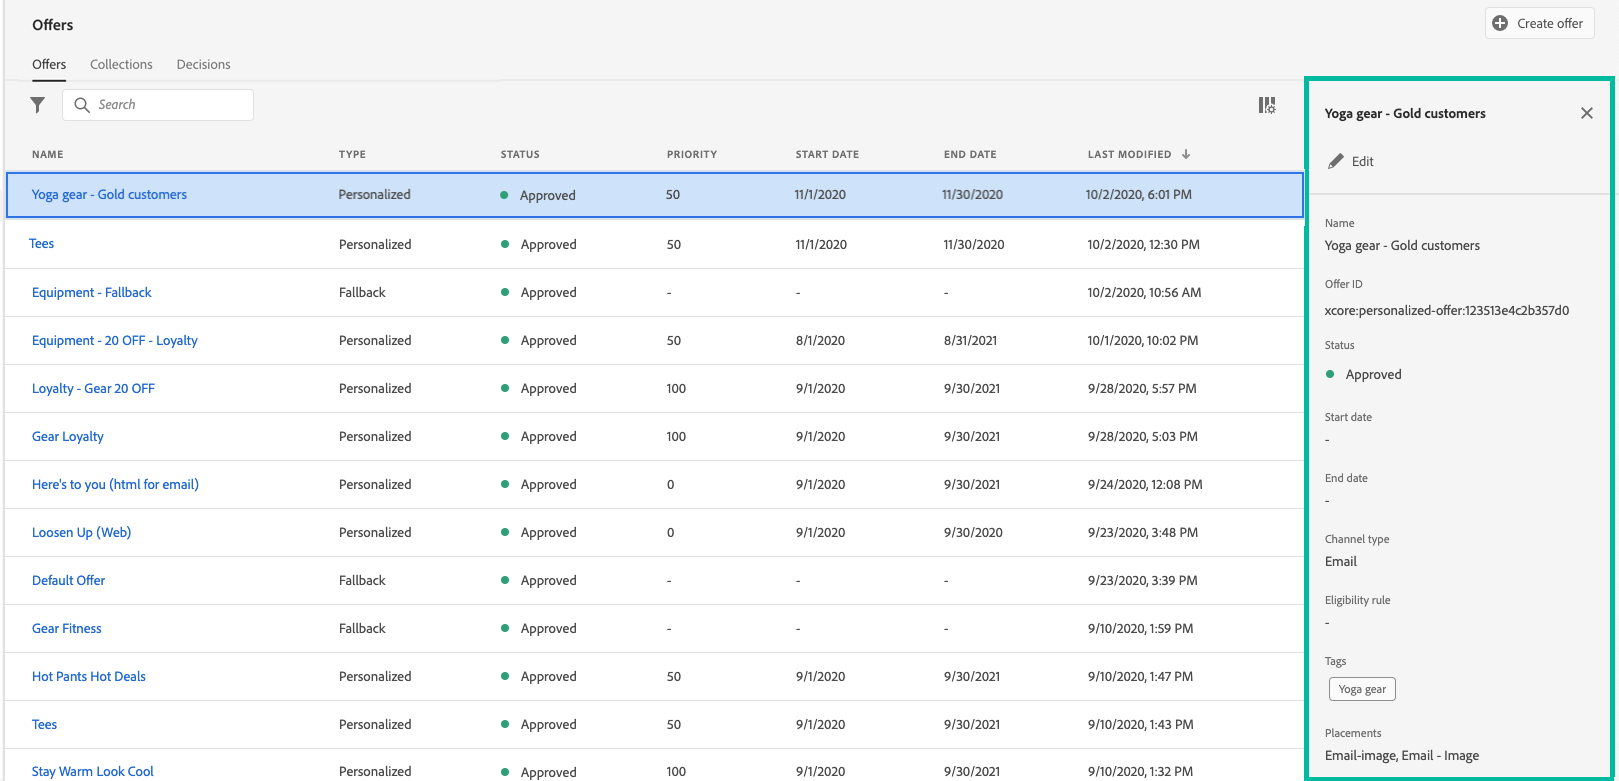
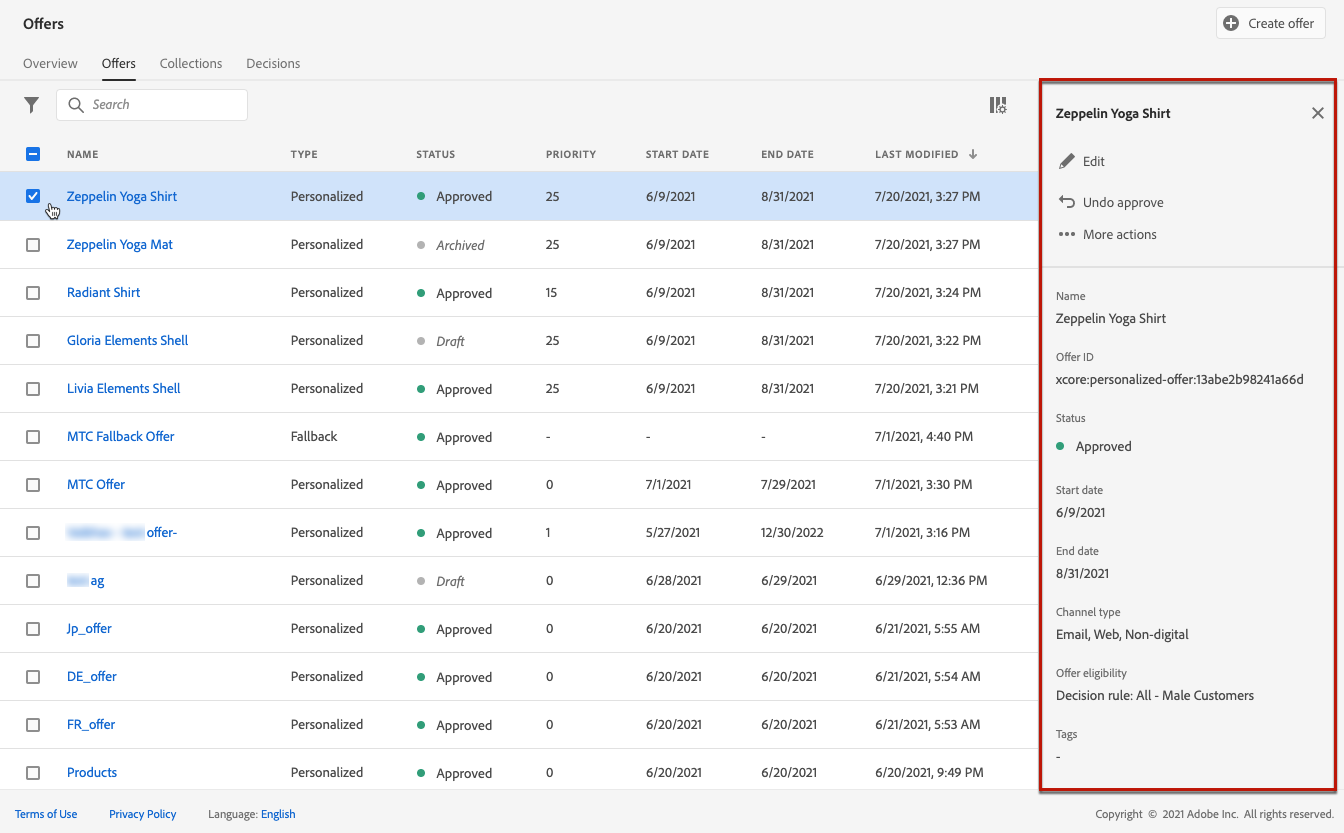
offer and decision lists updates + screens

diff --git a/help/using/offers/offer-activities/create-offer-activities.md b/help/using/offers/offer-activities/create-offer-activities.md
@@ -77,26 +77,67 @@ Select the fallback offer that will be presented as a last resort to the custome
 
 ## Review and save the decision {#review}
 
-If everything is configured properly and your decision is ready to be used to  present offers to customers, click **[!UICONTROL Finish]**, then select **[!UICONTROL Save and activate]**.
+If everything is configured properly, a summary of the decision properties displays. 
 
-You can also save the decision as draft, in order to edit and activate it later on.
+1. Make sure decision is ready to be used to  present offers to customers.
+1. Click **[!UICONTROL Finish]**.
+1. Then select **[!UICONTROL Save and activate]**.
 
-![](../../assets/save-activities.png)
+    ![](../../assets/save-activities.png)
+    
+    You can also save the decision as draft, in order to edit and activate it later on.
 
 The decision displays in the list with the **[!UICONTROL Live]** or **[!UICONTROL Draft]** status, depending on whether you activated it or not in the previous step. 
 
-It is now ready to be used to deliver offers to customers. You can select it to display its properties and edit or suppress it.
+It is now ready to be used to deliver offers to customers.
 
-For more on to deliver offers, refer to these sections:
+## Decision list {#decision-list}
 
-* [Add personalized offers in messages](../../deliver-personalized-offers.md)
-* [Deliver offers using APIs](../api-reference/decisions-api/deliver-offers.md)
+From the decision list, you can select the decision to display its properties. From there you can also edit it, change its status (**Draft**, **Live**, **Complete**, **Archived**), duplicate the decision, or delete it.
 
-![](../../assets/activities-created.png)
+![](../../assets/decision_created.png)
 
->[!NOTE]
->
->Once a decision has been created, you can click its name in the list to access detailed information, and visualize all the changes that have been made to it using the **[!UICONTROL Change log]** tab. [Learn more](../get-started/user-interface.md#changes-log). 
+Select the **[!UICONTROL Edit]** button to go back to the decision edition mode, where you can modify the decision's [details](#create-activity), [decision scopes](#add-decision-scopes) and [fallback offer](#add-fallback).
+
+Select a live decision and click **[!UICONTROL Deactivate]** to set the decision status back to **[!UICONTROL Draft]**.
+
+To set again the status to **[!UICONTROL Live]**, select the **[!UICONTROL Activate]** button that is now displayed.
+
+![](../../assets/decision_activate.png)
+
+The **[!UICONTROL More actions]** button enables the actions described below.
+
+![](../../assets/decision_more-actions.png)
+
+* **[!UICONTROL Complete]**: sets the decision's status to **[!UICONTROL Complete]**, meaning the decision cannot be called anymore. This action is only available for activated decisions. The decision is still available from the list, but you cannot set its status back to **[!UICONTROL Draft]** or **[!UICONTROL Approved]**. You can only duplicate, delete or archive it.
+
+* **[!UICONTROL Duplicate]**: creates a decision with the same properties, decision scopes and fallback offer. By default, the new decision has the **[!UICONTROL Draft]** status.
+
+* **[!UICONTROL Delete]**: removes the decision from the list.
+
+    >[!CAUTION]
+    >
+    >The decision and its content will not be accessible anymore. This action cannot be undone.
+    >
+    >If the decision is used in another object, it cannot be deleted.
+
+* **[!UICONTROL Archive]**: sets the decision status to **[!UICONTROL Archived]**. The decision is still available from the list, but you cannot set its status back to **[!UICONTROL Draft]** or **[!UICONTROL Approved]**. You can only duplicate or delete it.
+
+You can also delete or change the status of multiple decisions at the same time by selecting the corresponding checkboxes.
+
+![](../../assets/decision_multiple-selection.png)
+
+If you want to change the status of several decisions whith different statuses, only the relevant statuses will be changed.
+
+![](../../assets/decision_change-status.png)
+
+Once a decision has been created, you can click its name from the list.
+
+![](../../assets/decision_click-name.png)
+
+This enables you to access detailed information for that decision. Select the **[!UICONTROL Change log]** tab to [monitor all the changes](../get-started/user-interface.md#changes-log) that have been made to the decision.
+
+![](../../assets/decision_information.png)
 
 ## Tutorial video {#video}
 

diff --git a/help/using/offers/offer-library/creating-personalized-offers.md b/help/using/offers/offer-library/creating-personalized-offers.md
@@ -112,19 +112,68 @@ Eligibility rules and constrains allow you to define the conditions under which 
 
 ## Review the offer {#review}
 
-Once eligibility rules and constraints have been defined, a summary of the offer properties displays. If everything is configured properly and your offer is ready to be presented to users, click **[!UICONTROL Finish]**, then select **[!UICONTROL Save and approve]**.
+Once eligibility rules and constraints have been defined, a summary of the offer properties displays.
 
-You can also save the offer as a draft, in order to edit and approve it later on. 
+1. Make sure everything is configured properly.
 
-![](../../assets/offer_review.png)
+1. When your offer is ready to be presented to users, click **[!UICONTROL Finish]**.
 
-The offer displays in the list with the **[!UICONTROL Live]** or **[!UICONTROL Draft]** status, depending on whether you approved it or not in the previous step.
+1. Select **[!UICONTROL Save and approve]**.
 
-It is now ready to be delivered to users. You can select it to display its properties and edit or suppress it.
+    ![](../../assets/offer_review.png)
+
+    You can also save the offer as a draft, in order to edit and approve it later on. 
+
+The offer displays in the list with the **[!UICONTROL Approved]** or **[!UICONTROL Draft]** status, depending on whether you approved it or not in the previous step.
+
+It is now ready to be delivered to users.
 
 ![](../../assets/offer_created.png)
 
-Once an offer has been created, you can click its name in the list to access detailed information, as well as monitor all the changes that have been made to it using the **[!UICONTROL Change log]** tab. [Learn more](../get-started/user-interface.md#monitoring-changes).
+## Offer list {#offer-list}
+    
+From the offer list, you can select the offer to display its properties. You can also edit it, change its status (**Draft**, **Approved**, **Archived**), duplicate the offer, or delete it.
+
+![](../../assets/offer_created.png)
+
+Select the **[!UICONTROL Edit]** button to go back to the offer edition mode, where you can modify the offer's [details](#create-offer), [representations](#representations), as well as edit the [eligibility rules and constraints](#eligibility). 
+
+Select an approved offer and click **[!UICONTROL Undo approve]** to set the offer status back to **[!UICONTROL Draft]**.
+
+To set again the status to **[!UICONTROL Approved]**, select the corresponding button that is now displayed.
+
+![](../../assets/offer_approve.png)
+
+The **[!UICONTROL More actions]** button enables the actions described below.
+
+![](../../assets/offer_more-actions.png)
+
+* **[!UICONTROL Duplicate]**: creates an offer with the same properties, representations, eligibility rules and constraints. By default, the new offer has the **[!UICONTROL Draft]** status.
+* **[!UICONTROL Delete]**: removes the offer from the list.
+
+    >[!CAUTION]
+    >
+    >The offer and its content will not be accessible anymore. This action cannot be undone.
+    >
+    >If the offer is used in a collection or a decision, it cannot be deleted. You must remove the offer from any objects first.
+
+* **[!UICONTROL Archive]**: sets the offer status to **[!UICONTROL Archived]**. The offer is still available from the list, but you cannot set its status back to **[!UICONTROL Draft]** or **[!UICONTROL Approved]**. You can only duplicate or delete it.
+
+You can also delete or change the status of multiple offers at the same time by selecting the corresponding checkboxes.
+
+![](../../assets/offer_multiple-selection.png)
+
+If you want to change the status of several offers whith different statuses, only the relevant statuses will be changed.
+
+![](../../assets/offer_change-status.png)
+
+Once an offer has been created, you can click its name from the list.
+
+![](../../assets/offer_click-name.png)
+
+This enables you to access detailed information for that offer. Select the **[!UICONTROL Change log]** tab to [monitor all the changes](../get-started/user-interface.md#monitoring-changes) that have been made to the offer.
+
+![](../../assets/offer_information.png)
 
 ## Tutorial video {#video}
 
